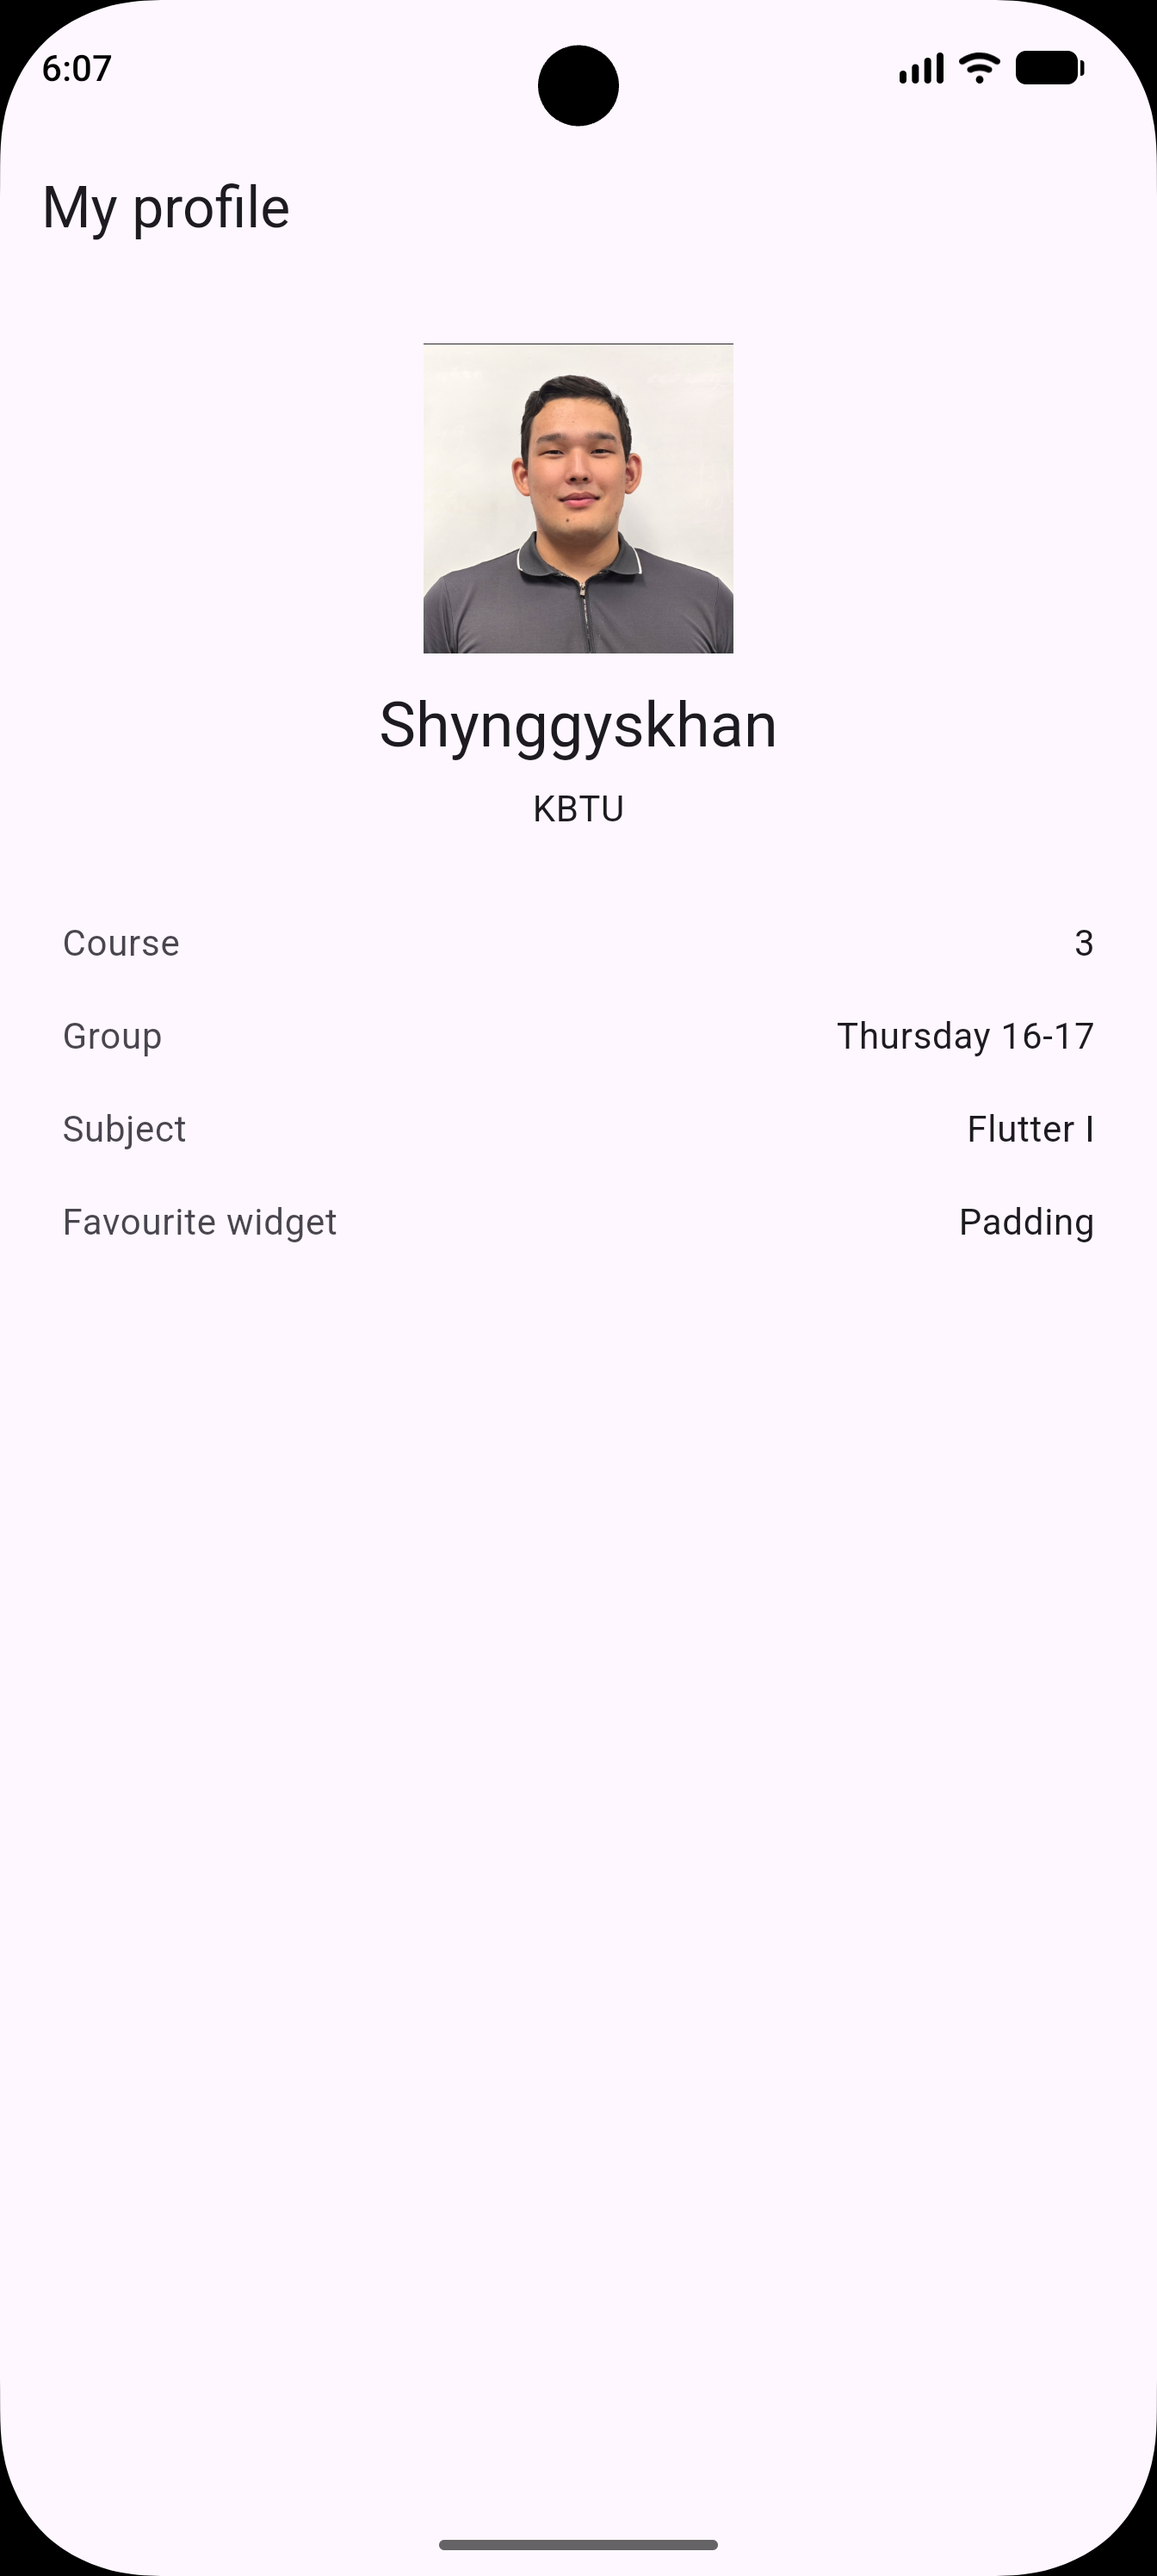
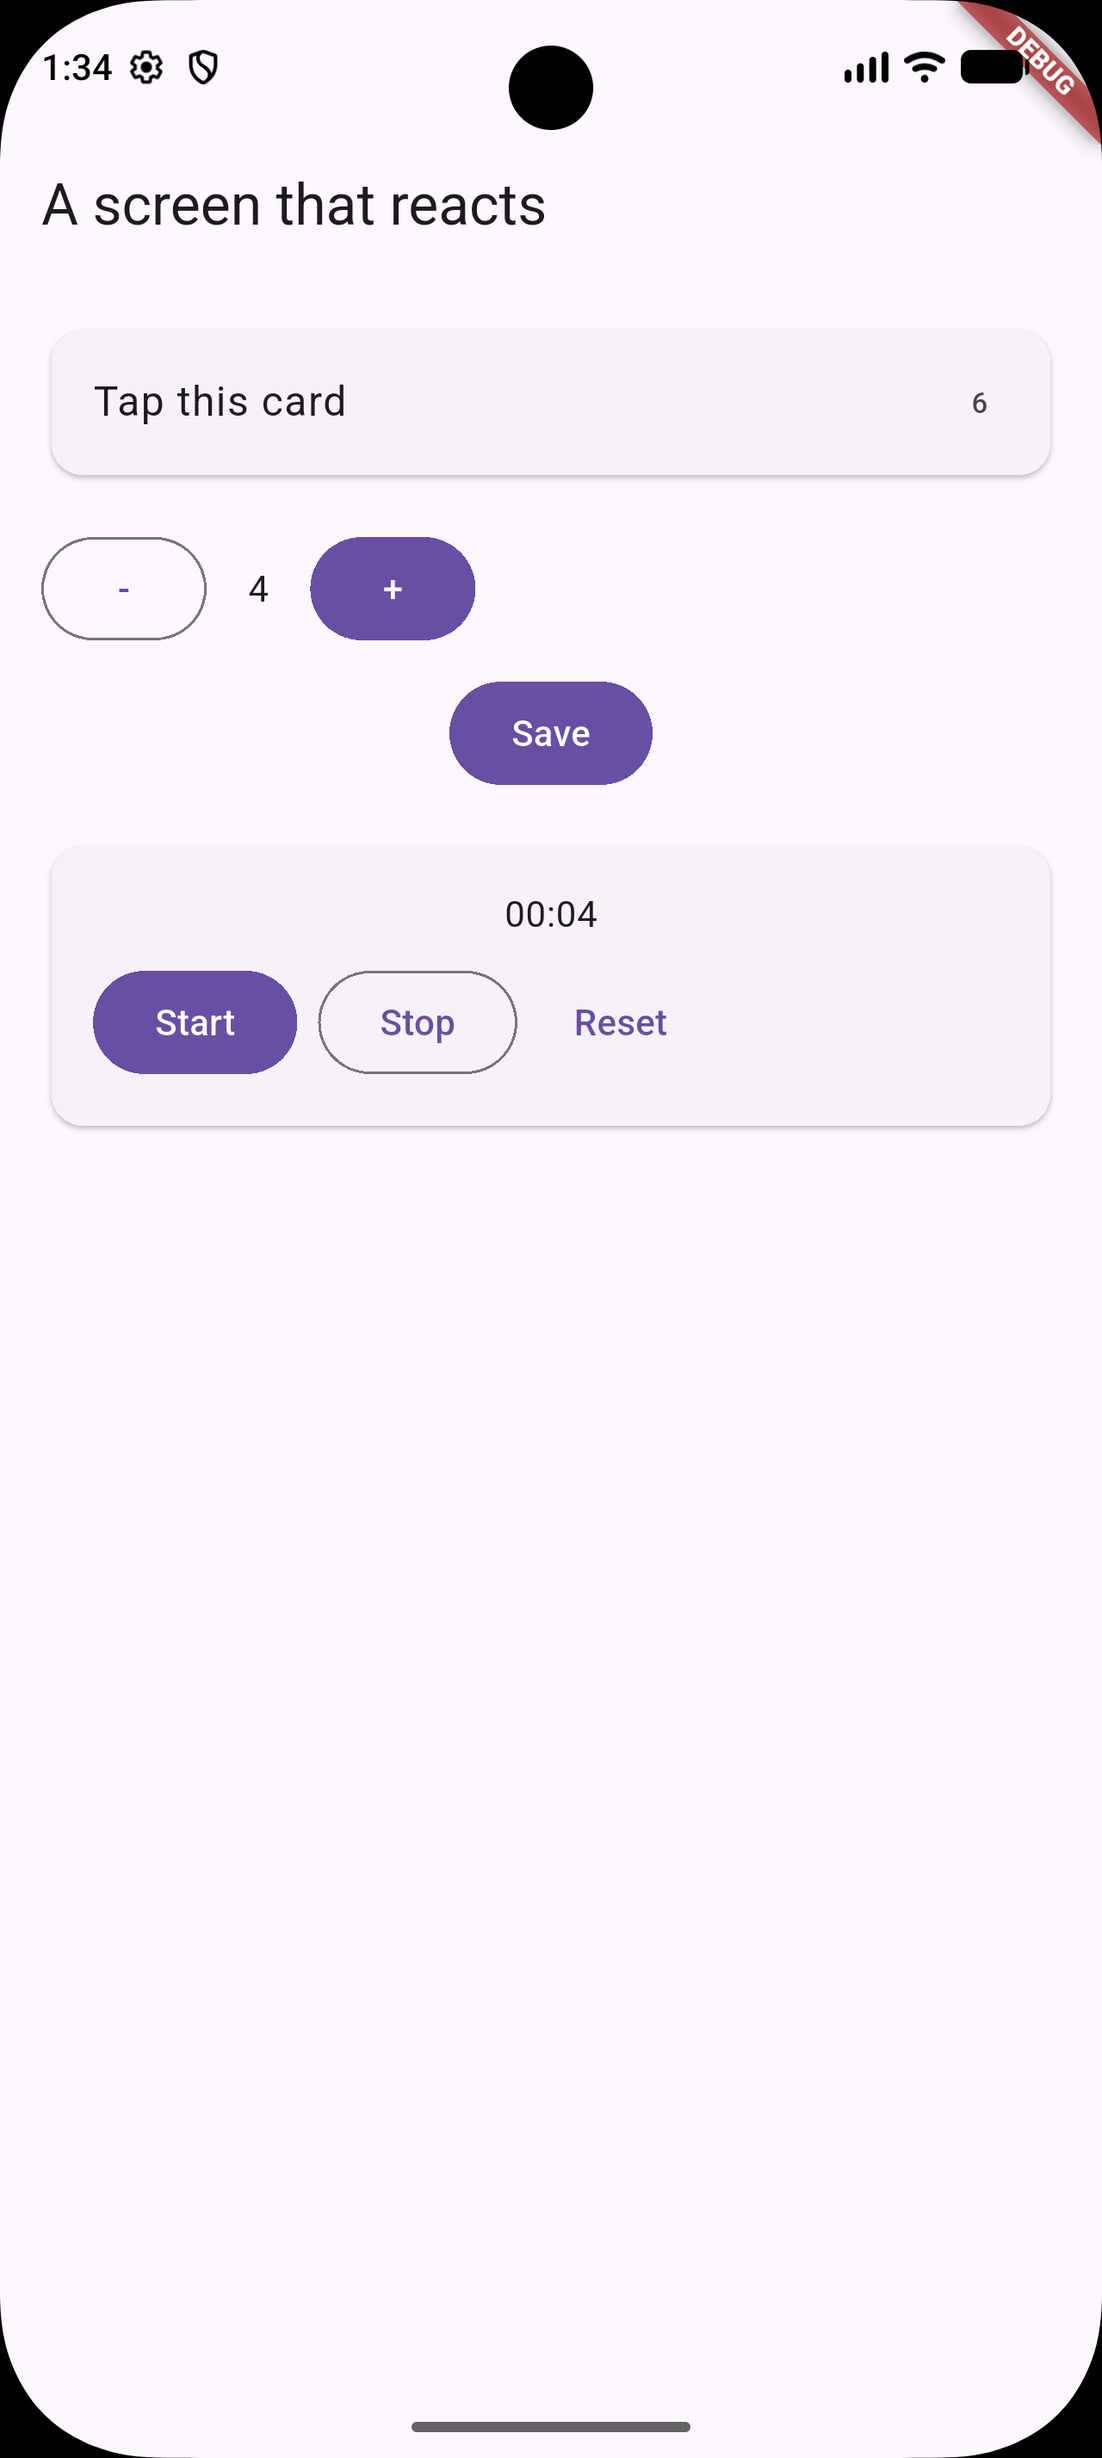
Add Practice 4 reactive screen

diff --git a/lib/week04/two_way_counter.dart b/lib/week04/two_way_counter.dart
@@ -1,0 +1,67 @@
+import 'package:flutter/material.dart';
+
+class TwoWayCounter extends StatefulWidget {
+  const TwoWayCounter({super.key});
+
+  @override
+  State<TwoWayCounter> createState() => _TwoWayCounterState();
+}
+
+class _TwoWayCounterState extends State<TwoWayCounter> {
+  int _count = 0;
+  bool _saving = false;
+  Future<void> _save() async {
+    setState(() {
+      _saving = true;
+    });
+    await Future.delayed(const Duration(seconds: 2));
+    if (!mounted) return;
+    setState(() {
+      _saving = false;
+    });
+    ScaffoldMessenger.of(context)
+        .showSnackBar(const SnackBar(content: Text('Saved')));
+  }
+
+  @override
+  Widget build(BuildContext context) => Column(
+    children: [
+      Row(
+        children: [
+          OutlinedButton(
+            onPressed: _count == 0
+                ? null
+                : () {
+                    setState(() {
+                      _count--;
+                    });
+                  },
+            child: const Text('-'),
+          ),
+          const SizedBox(width: 16),
+          Text('$_count'),
+          const SizedBox(width: 16),
+          FilledButton(
+            onPressed: () {
+              setState(() {
+                _count++;
+              });
+            },
+            child: const Text('+'),
+          ),
+        ],
+      ),
+      const SizedBox(height: 8),
+      FilledButton(
+        onPressed: _saving ? null : _save,
+        child: _saving
+            ? const SizedBox(
+                width: 20,
+                height: 20,
+                child: CircularProgressIndicator(strokeWidth: 2),
+              )
+            : const Text('Save'),
+      ),
+    ],
+  );
+}

diff --git a/lib/week04/stopwatch_card.dart b/lib/week04/stopwatch_card.dart
@@ -1,0 +1,72 @@
+import 'package:flutter/material.dart';
+
+import 'dart:async';
+
+class StopwatchCard extends StatefulWidget {
+  const StopwatchCard({super.key});
+
+  @override
+  State<StopwatchCard> createState() => _StopwatchCardState();
+}
+
+class _StopwatchCardState extends State<StopwatchCard> {
+  int _seconds = 0;
+  Timer? _timer;
+
+  void _start() {
+    if (_timer != null) return;
+
+    _timer = Timer.periodic(const Duration(seconds: 1), (_) {
+      setState(() {
+        _seconds++;
+      });
+    });
+  }
+
+  void _stop() {
+    _timer?.cancel();
+    _timer = null;
+  }
+
+  void _reset() {
+    _stop();
+
+    setState(() {
+      _seconds = 0;
+    });
+  }
+
+  String get _formattedTime {
+    final minutes = (_seconds ~/ 60).toString().padLeft(2, '0');
+    final seconds = (_seconds % 60).toString().padLeft(2, '0');
+    return '$minutes:$seconds';
+  }
+
+  @override
+  void dispose() {
+    _timer?.cancel();
+    super.dispose();
+  }
+
+  @override
+  Widget build(BuildContext context) => Card(
+    child: Padding(
+      padding: const EdgeInsets.all(16),
+      child: Column(
+        children: [
+          Text(_formattedTime),
+          const SizedBox(height: 8),
+          Row(
+            children: [
+              FilledButton(onPressed: _start, child: const Text('Start')),
+              const SizedBox(width: 8),
+              OutlinedButton(onPressed: _stop, child: const Text('Stop')),
+              const SizedBox(width: 8),
+              TextButton(onPressed: _reset, child: const Text('Reset')),
+            ],
+          ),
+        ],
+      ),
+    ),
+  );
+}

diff --git a/lib/week04/tap_card.dart b/lib/week04/tap_card.dart
@@ -1,0 +1,55 @@
+import 'package:flutter/material.dart';
+
+class TapCard extends StatefulWidget {
+  const TapCard({super.key});
+
+  @override
+  State<TapCard> createState() => _TapCardState();
+}
+
+class _TapCardState extends State<TapCard> {
+  int _taps = 0;
+  Future<bool?> _askToReset() => showDialog(
+    context: context,
+    builder: (dialogContext) => AlertDialog(
+      title: const Text('Reset the count?'),
+      actions: [
+        TextButton(
+          onPressed: () => Navigator.of(dialogContext).pop(false),
+          child: const Text('Cancel'),
+        ),
+        TextButton(
+          onPressed: () => Navigator.of(dialogContext).pop(true),
+          child: const Text('Reset'),
+        ),
+      ],
+    ),
+  );
+  @override
+  Widget build(BuildContext context) => Card(
+    // Card рисует карточку
+    child: InkWell(
+      // InkWell принимает нажатие
+      onTap: () {
+        setState(() {
+          _taps++;
+        });
+      },
+      onLongPress: () async {
+        final reset = await _askToReset();
+        if (!mounted || reset != true) return;
+
+        setState(() {
+          _taps = 0;
+        });
+      },
+      child: ListTile(
+        // ListTile размещает текст и число в одной строке
+        title: const Text('Tap this card'),
+        trailing: Text(
+          '$_taps',
+        ), // '$_taps' вставляет значение переменной в текст
+      ),
+    ),
+  );
+}

diff --git a/lib/week04/main.dart b/lib/week04/main.dart
@@ -1,0 +1,37 @@
+import 'package:flutter/material.dart';
+
+import 'stopwatch_card.dart';
+import 'two_way_counter.dart';
+import 'tap_card.dart';
+
+void main() {
+  return runApp(const MyApp());
+}
+
+class MyApp extends StatelessWidget {
+  const MyApp({super.key});
+
+  @override
+  Widget build(BuildContext context) => const MaterialApp(home: HomeScreen());
+}
+
+class HomeScreen extends StatelessWidget {
+  const HomeScreen({super.key});
+
+  @override
+  Widget build(BuildContext context) => Scaffold(
+    appBar: AppBar(title: const Text('A screen that reacts')),
+    body: const Padding(
+      padding: EdgeInsets.all(16),
+      child: Column(
+        children: [
+          TapCard(),
+          SizedBox(height: 16),
+          TwoWayCounter(),
+          SizedBox(height: 16),
+          StopwatchCard(),
+        ],
+      ),
+    ),
+  );
+}

diff --git a/PRACTICE_4.md b/PRACTICE_4.md
@@ -1,0 +1,6 @@
+# Practice 4 A screen that reacts
+
+Run from the repository root:
+flutter run -t lib/week04/main.dart
+
+Screenshot: screenshot.png
